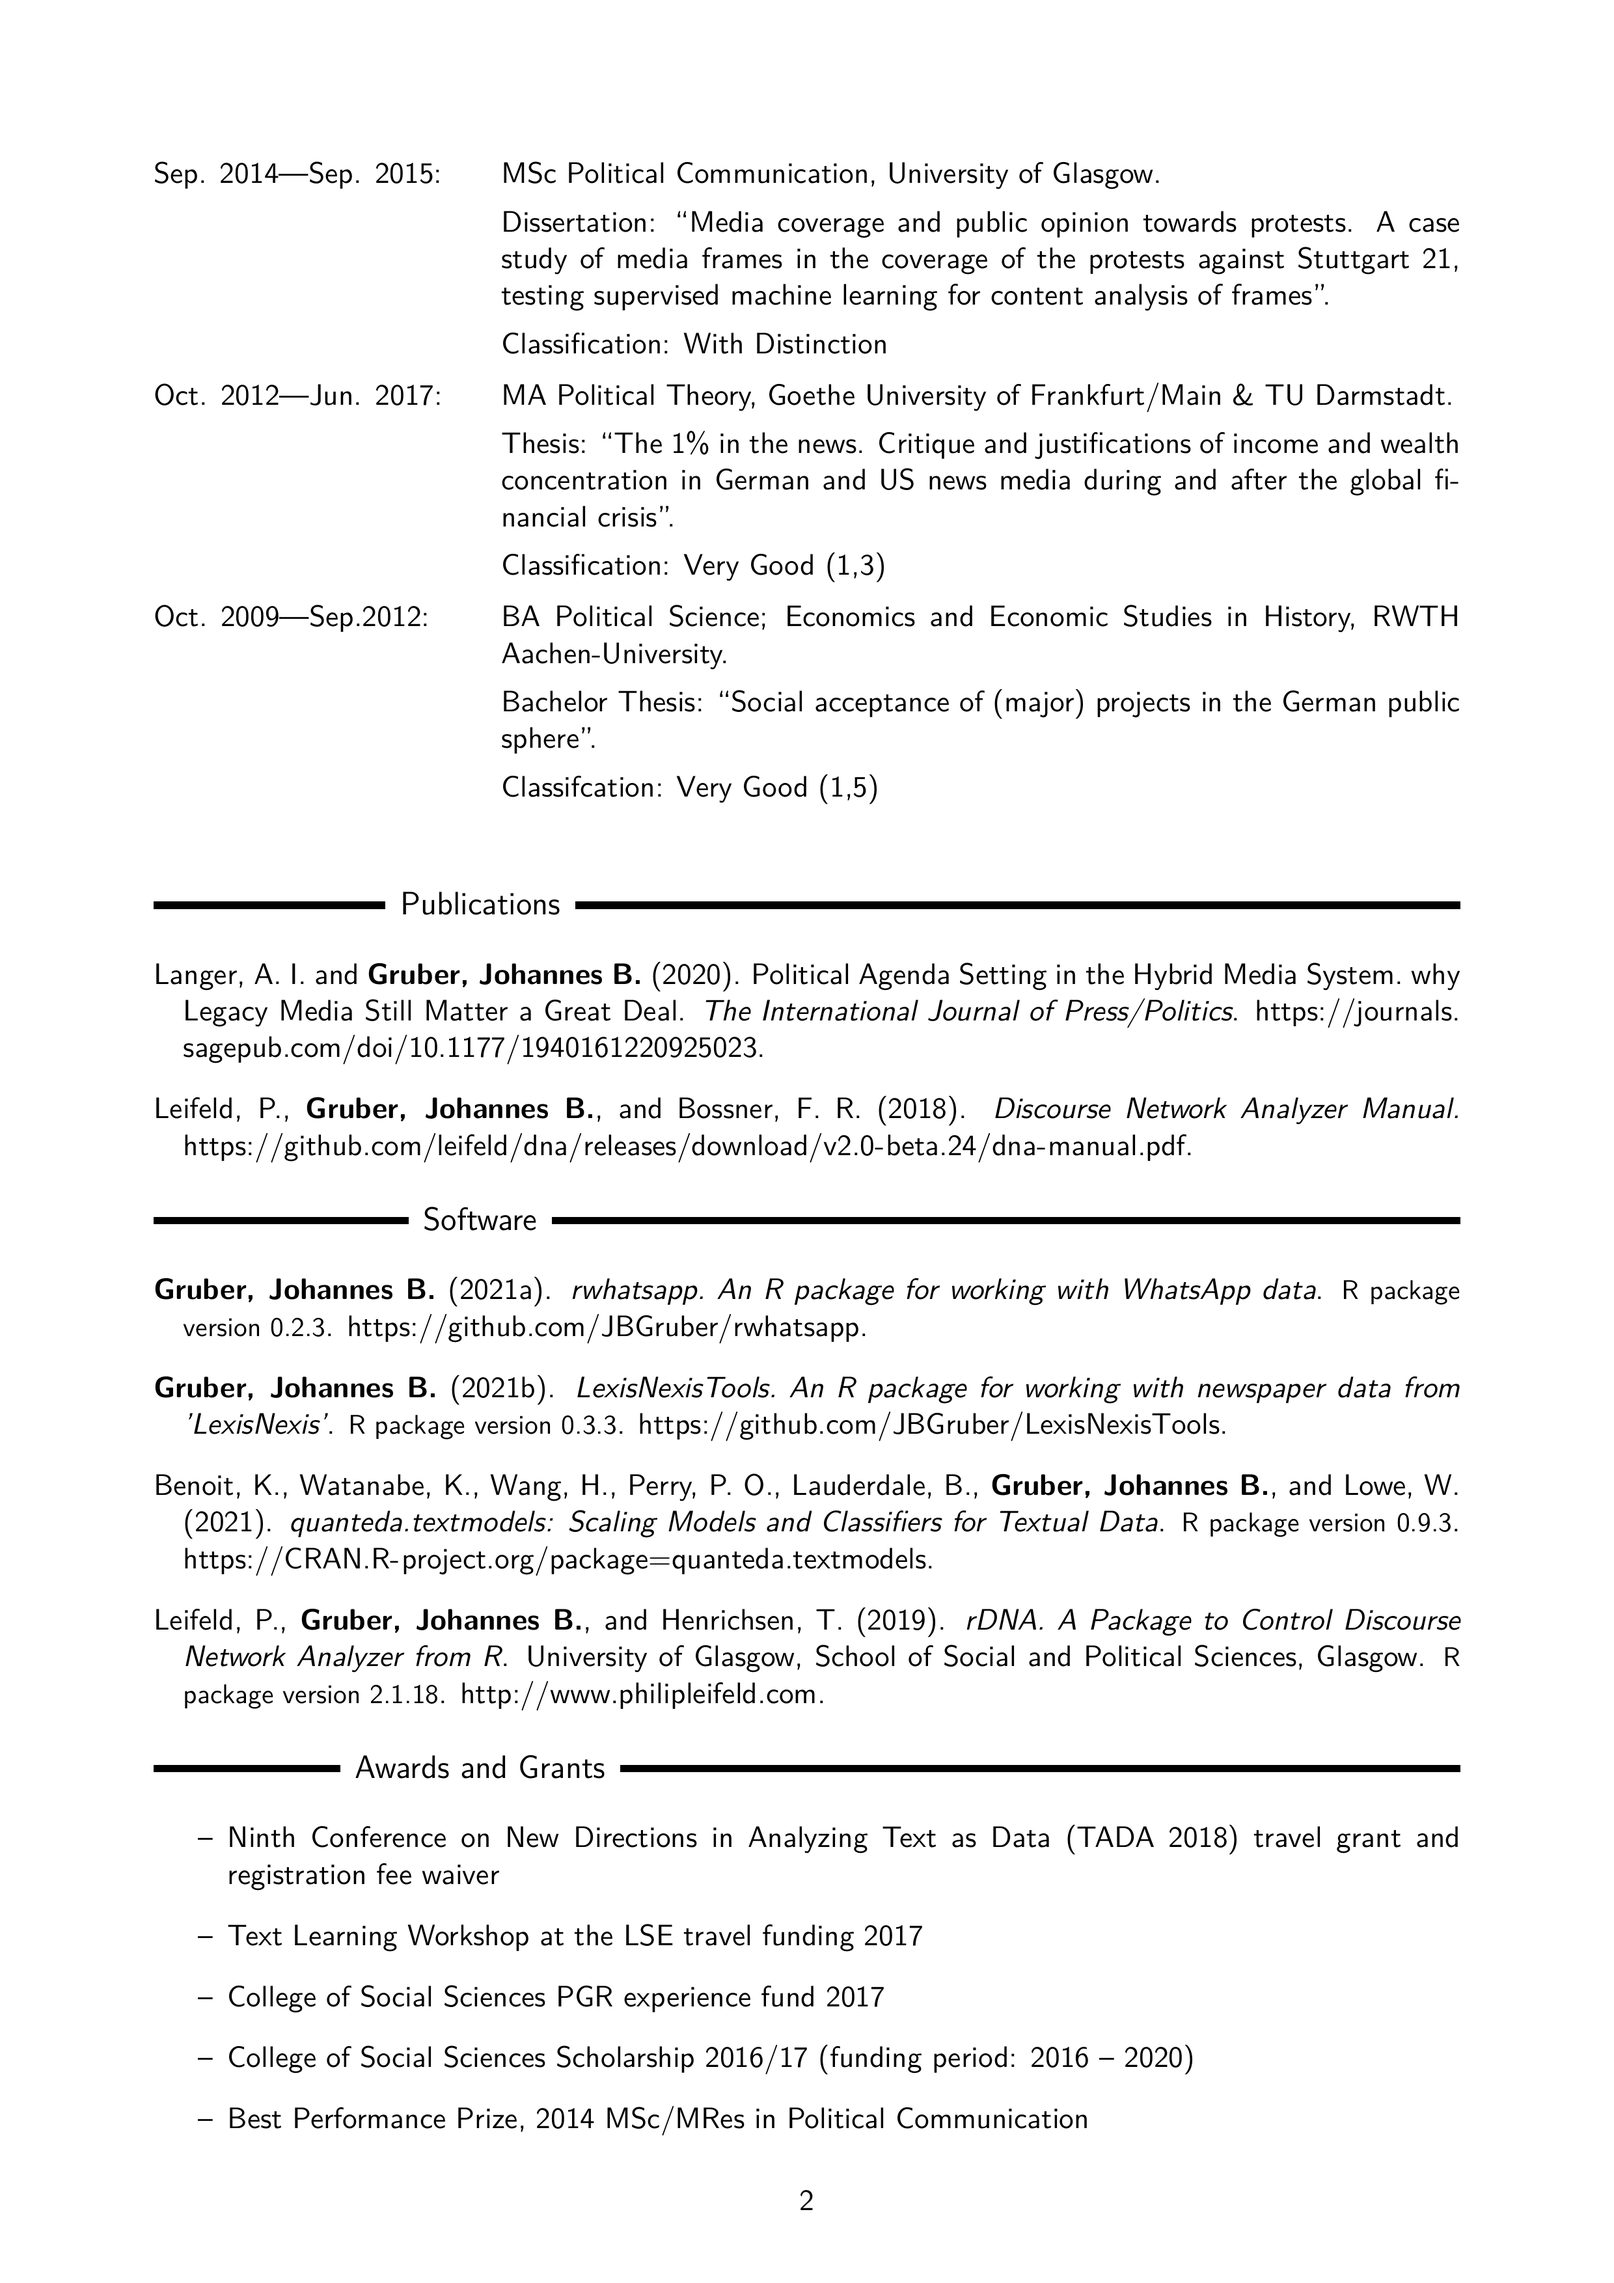
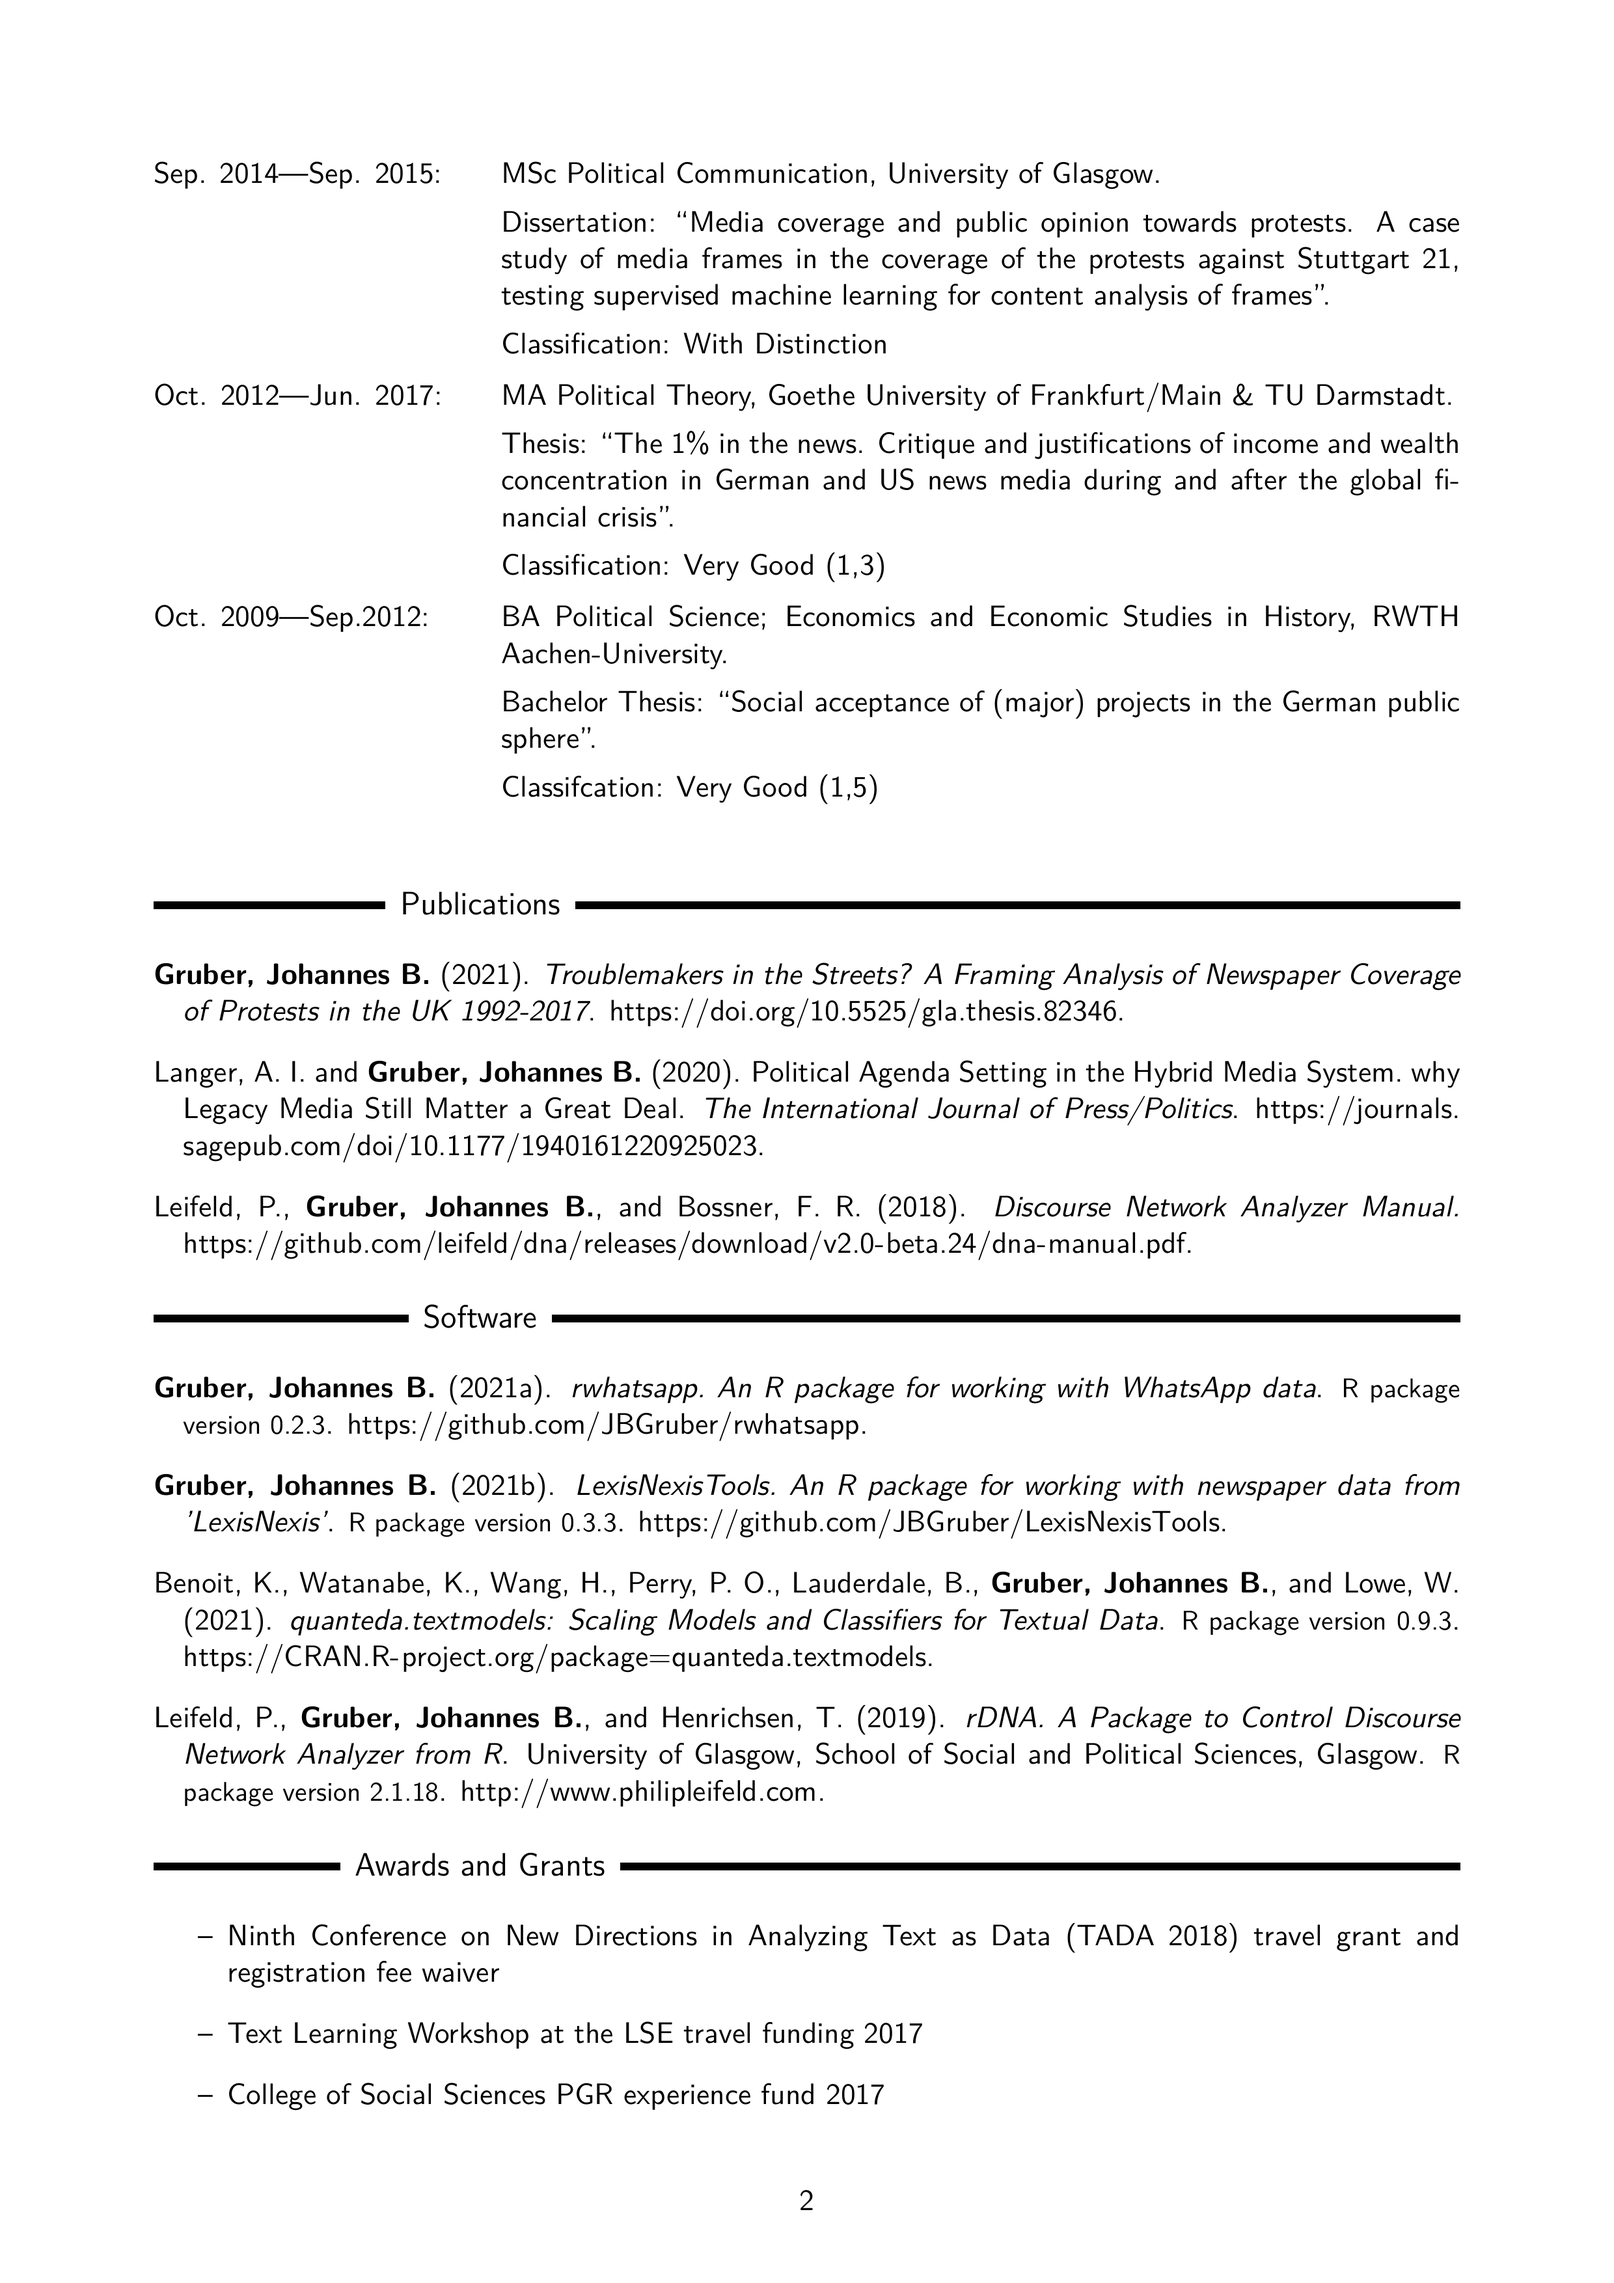
Added thesis as publication

Changed region(s): [[0.0931, 0.4039, 0.9004, 0.9322]]

diff --git a/README.md b/README.md
@@ -3,7 +3,7 @@
 
 [Download the PDF version](pdf_version/CV_JohannesGruber.pdf).
 
------
+------------------------------------------------------------------------
 
 <img src="png_version/CV_JohannesGruber-1.png" width="2480" /><img src="png_version/CV_JohannesGruber-2.png" width="2480" /><img src="png_version/CV_JohannesGruber-3.png" width="2480" />
 
